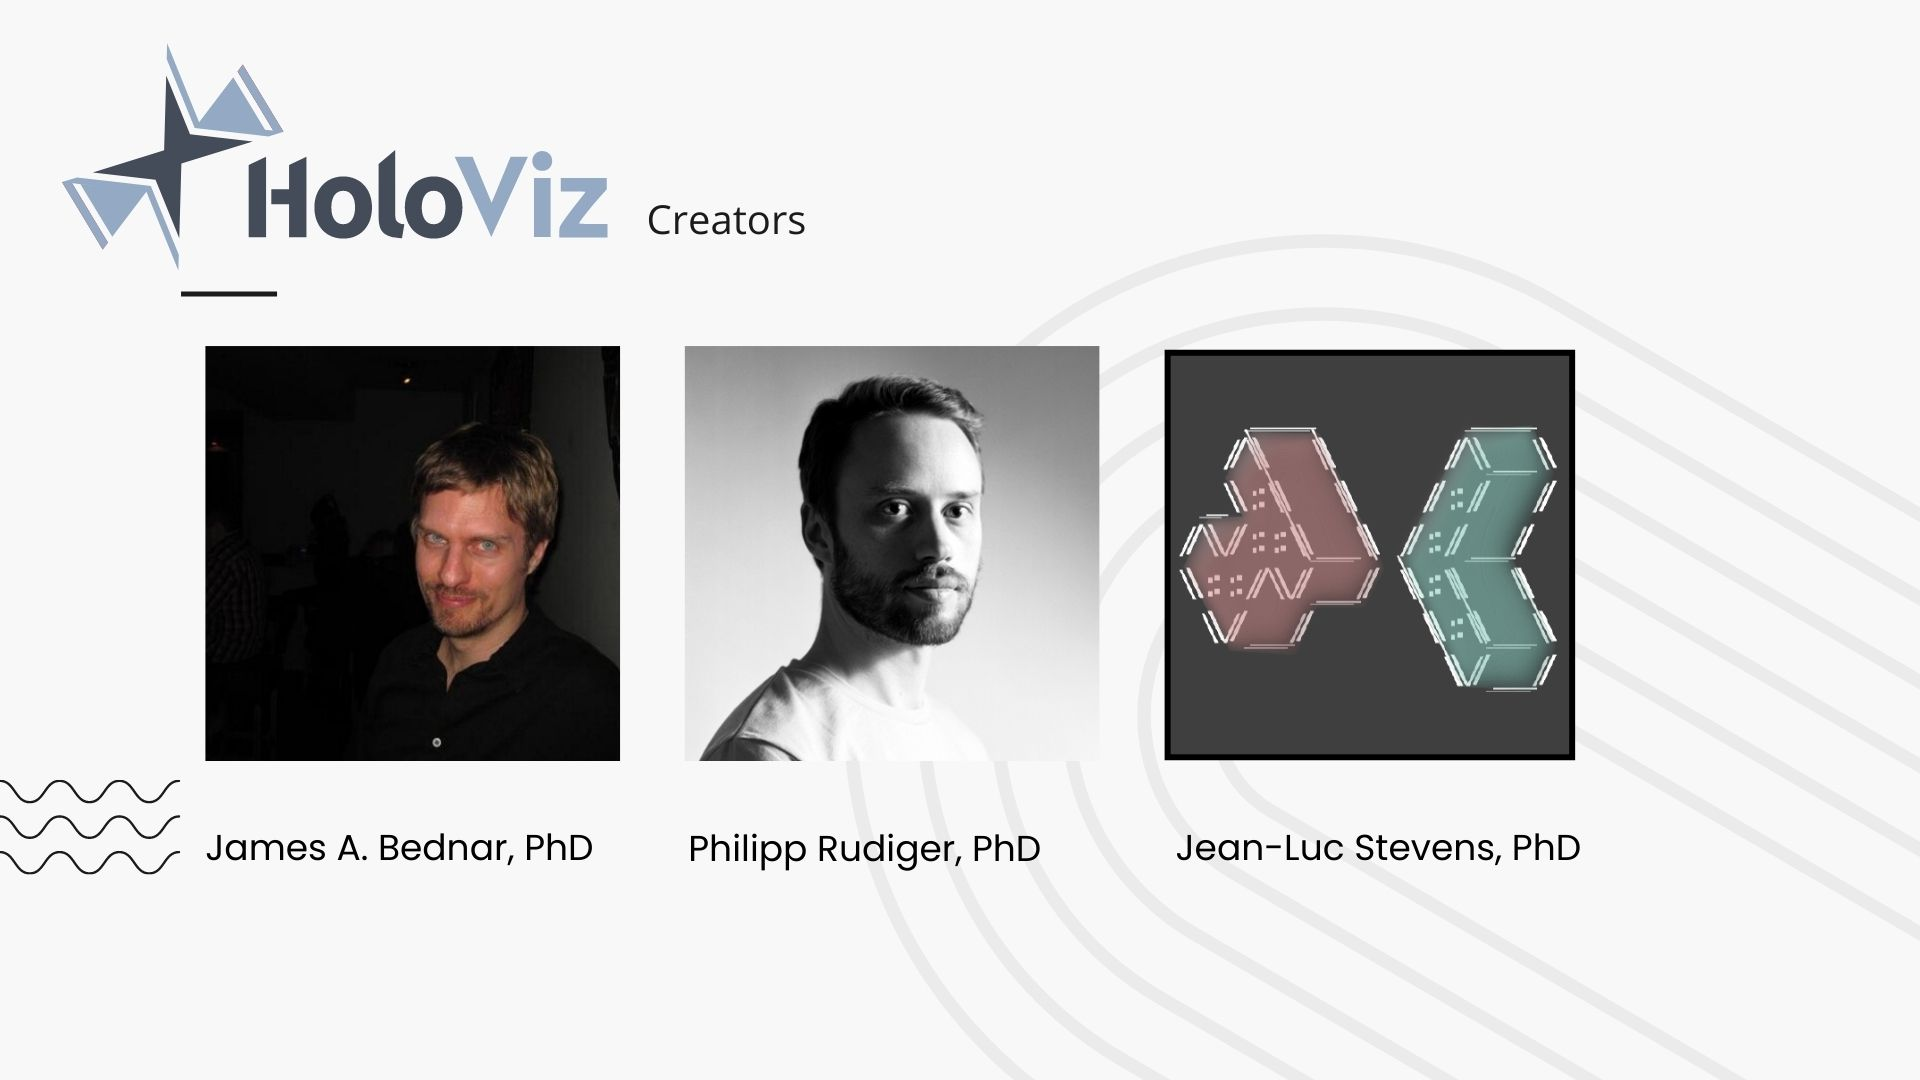
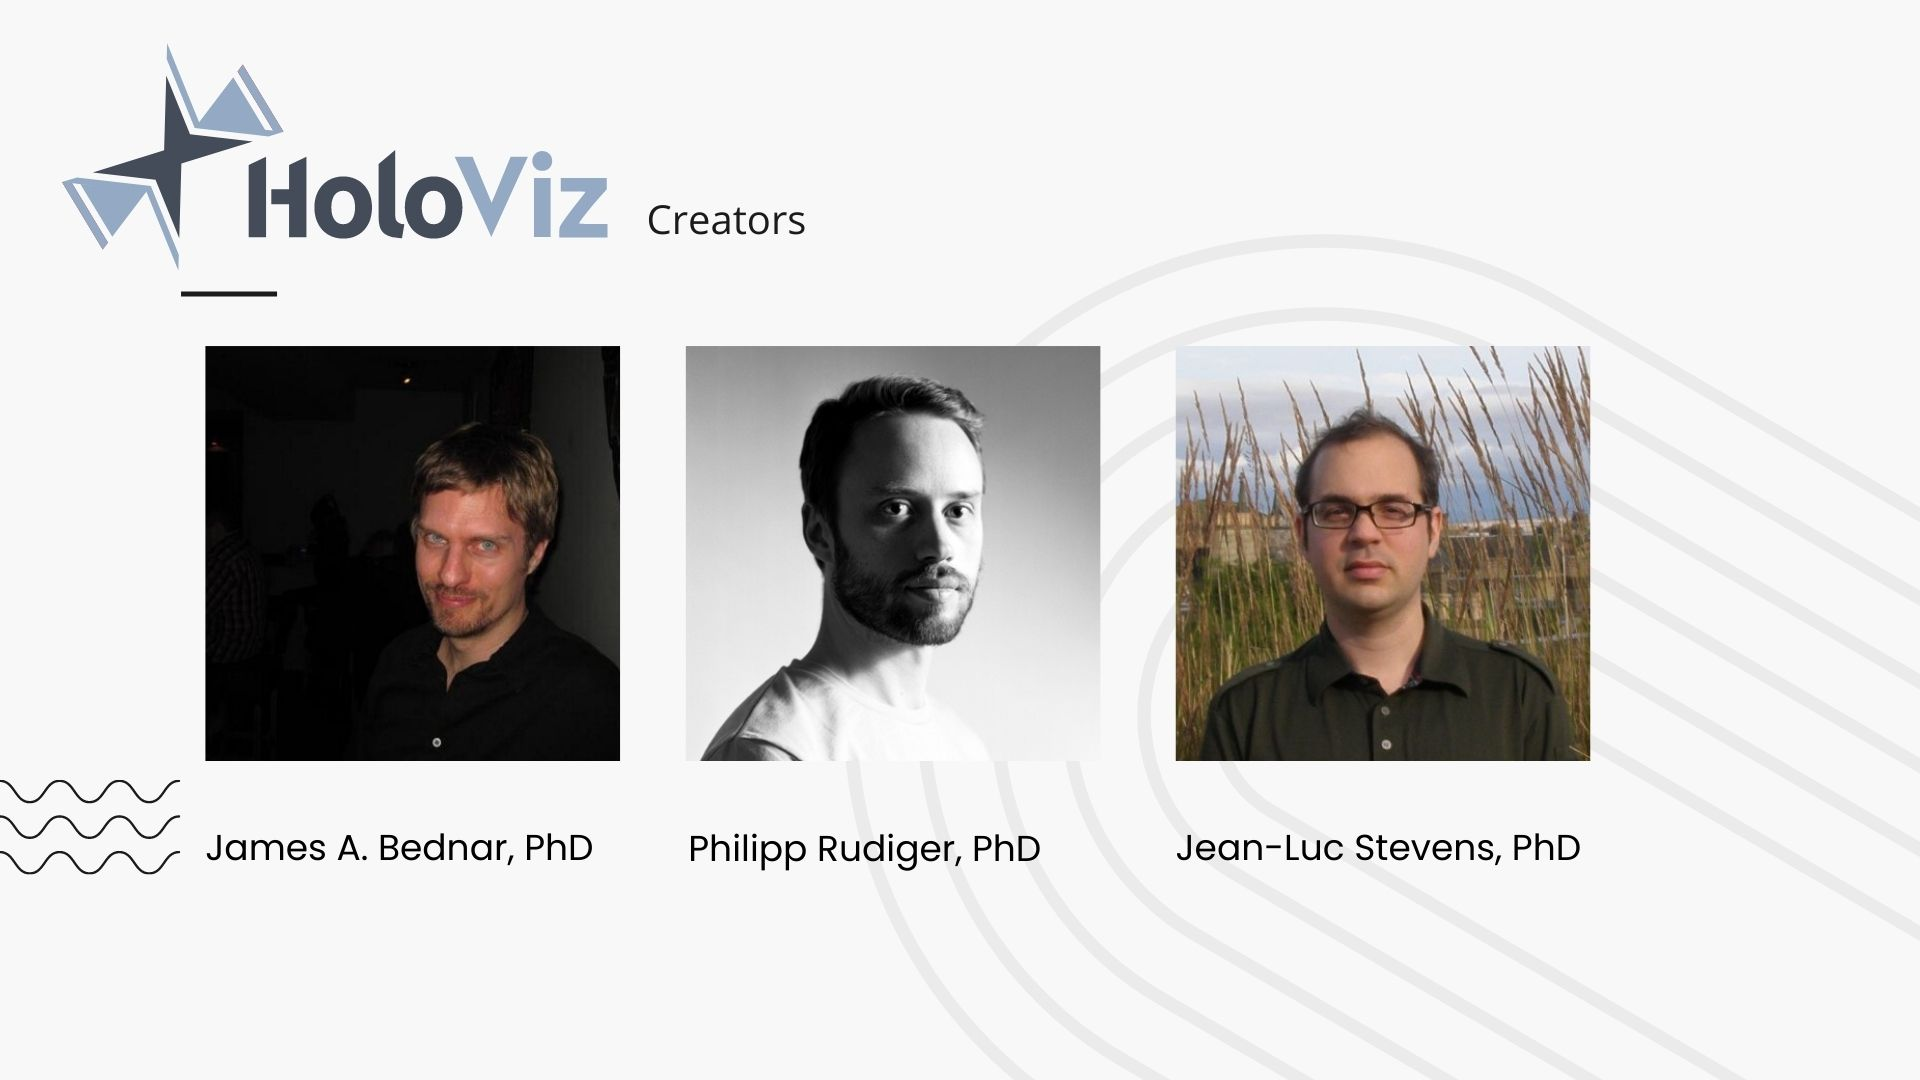
added pic

Changed region(s): [[0.5938, 0.3056, 0.8438, 0.7028], [0.4688, 0.4583, 0.5, 0.4889]]

diff --git a/index.html b/index.html
@@ -223,7 +223,7 @@
       <a href="https://www.linkedin.com/in/philippjfr/" class="fa fa-linkedin"></a>
     </div>
     <div class="w3-col l3 m6 w3-margin-bottom">
-        <img src="assets/jean-luc.png" alt="Dan" style="width:100%">
+        <img src="assets/jean-luc.jpeg" alt="Dan" style="width:100%">
         <h3>Jean-Luc Stevens, PhD</h3>
         <p class="w3-opacity">Senior Software Engineer at Anaconda</p>
       </div>
